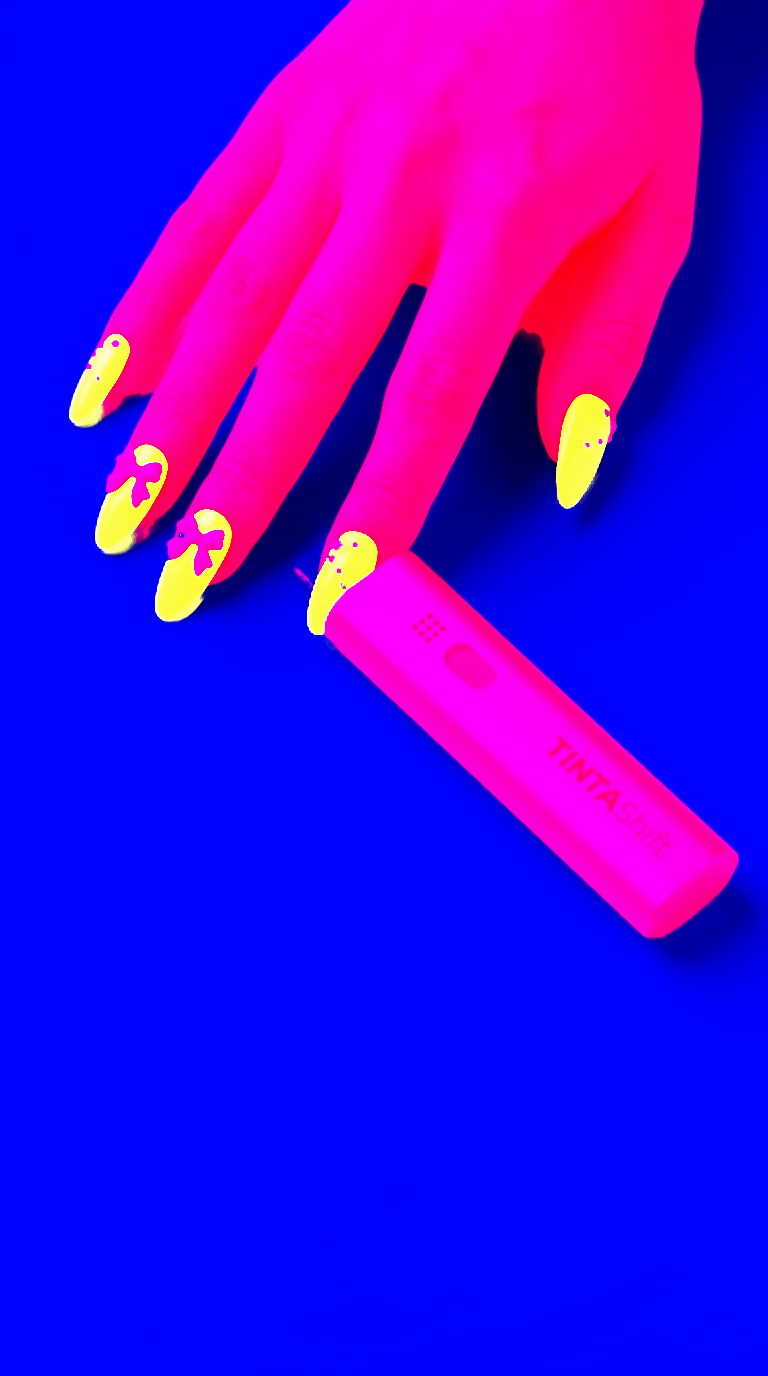
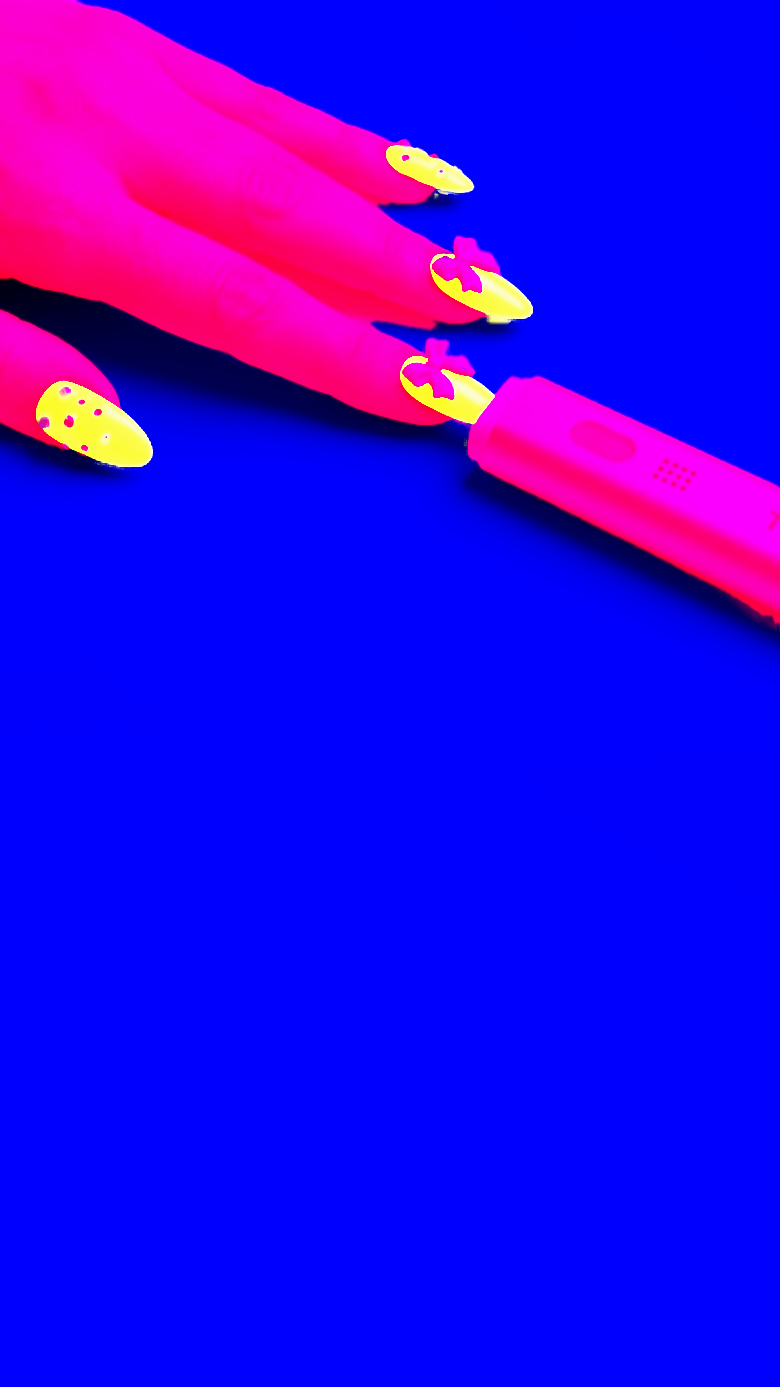
Drop the other session's close-up change; phone close-up now cropped from the approved desktop close-up; rewrite CLAUDE.md
Claude-Session: https://claude.ai/code/session_01RnnKGLg4ThwwdbugAb6Y6E

diff --git a/components/HeroScene.tsx b/components/HeroScene.tsx
@@ -106,7 +106,7 @@ export default function HeroScene({ tint, nail, set, close, onPick, onHover }: {
         // the portrait photo fills the screen (cover), anchored to the top: hand and Shifter sit in the top half,
         // the copy and the panel sit over the empty surface below, like the reference on a phone
         const f = Math.max(W / L.w, H / L.h); view = [(W - L.w * f) / 2, Math.min(0, (H - L.h * f) * 0.15), f];
-        const g = Math.max(W / L.w, H / L.h); cview = [(W - L.w * g) / 2, Math.min(0, (H - L.h * g) * 0.15), g];
+        const g = Math.max(W / L.w, H / L.h) * 1.18; cview = [(W - L.w * g) * 0.45, H * 0.13, g];   // below the back button, nail and device in the middle
       } else {
         const byW = W / L.w, f = Math.max(byW, Math.min(H / L.h, byW * 1.12));
         const panelLeft = W - 28 - Math.min(400, W * 0.34);

diff --git a/CLAUDE.md b/CLAUDE.md
@@ -1,97 +1,45 @@
-# Tintashift — handover notes
+# Tintashift — project notes
 
-## START HERE (state on 15 Nov 2026, end of the first long session)
-SamTeck moved to a new session. Everything is in this repo on `ccr-a563bc74-rhkfx4` and `main` (kept identical; Vercel production deploys from `ccr-a563bc74-rhkfx4`). The reference site's code is in `docs/reference-site/` (read its README).
+Marketing site and nail configurator for **TINTAShift** ("Wearable Beauty Technology · live in color"), built by SamTeck for the client **Dave**.
+- Live: https://tintashift.vercel.app (Vercel project `tintashift`; production deploys from branch `ccr-a563bc74-rhkfx4`).
+- Push every commit to both `ccr-a563bc74-rhkfx4` and `main` (Dave's Codex reads `main`). Commit and push when done, without asking.
+- SamTeck pays for tokens: short turns, do the work, verify, one screenshot, no long explanations.
+- Verify every generated image yourself before using it (device shape, where the nail goes, logo spelling).
 
-How the hero works now (follows the reference):
-- Opening shot: aluminium Shifter + one hand, whole nails in the picked colour, nail-set slider in the panel, **no colour picker** here. Hovering the hand shows "Try it on"; clicking the hand (or the Try it on button) opens the close-up.
-- Close-up: hand with the bow nail slid into the end of the Shifter (`docs/source-images/alu-close-si001.png`, the picture SamTeck said he loves; keep it). Copy and nav clear away, back button top left, panel = "Try it on", colour name, **colour picker**, Add to bag.
-- Phones: own 9:16 photos (`mob-*.png` → `public/hero/m-*`), one full screen, copy and panel over the empty surface.
+## What Dave wants
+- From SamTeck he wants **the nail configurator** (the hero). He built his own product page and cart; he will integrate the configurator into his own code later (his site is on IONOS at tintashift.store).
+- His complaints so far: **slow**, **not good on mobile**, and it must be **perfect**.
+- His brief for the hero: one hand like the reference, the machine with it, no animation of the finger going into the machine on the opening shot, a way to switch the colour and the nail set.
 
-Next steps SamTeck asked for and not done yet:
-1. Close-ups for the other four nail sets (desktop `alu-close-<set>.png` and phone `mob-close-<set>.png`), same framing as `alu-close-si001.png`. Until then the close-up always shows the bow set.
-2. A real video for the move into the close-up and back, like the reference's `ida-`/`vuelta-` clips. Needs a video model; Weave (Figma) was still not linked.
-3. Check the phone close-up picture (`mob-close-si001.png`) against the desktop one: it was generated separately and has not been reviewed by SamTeck.
+## The product
+- **TINTAShifter** (€249). Use the **aluminium** one: slim matte silver bar, rounded-triangle section, "TINTAShift" engraved along the side (one word, TINTA bold, Shift light), an oval grey button and a 2×4 grid of holes near one end. **That end is open; the nail slides into it, finger and device in one straight line.** Photos: `docs/reference/shifter-aluminium-*.jpg`.
+- **Smart Tips** (€39 a set): almond press-on nails. **The whole nail changes colour**; decorations (bows, stars, shells, pearls) stay on top. Store series: Muse, Icon, Spotlight, Chapter, Signature.
+- **The Complete Shift** (€288). Colour is never a product.
+- Brand: soft, editorial, chameleon logo (`public/img/chameleon.png`, low-res; ask Dave for the vector).
 
-Working style SamTeck asked for: he is paying for tokens, so keep turns short, do the work, show one screenshot, don't over-explain. Push to both branches when done without asking. Figma AI credits (image generation) reset daily at 00:00 UTC.
+## The reference site (copy the technique, never the assets)
+VERNIS by Ascenta Studio. Code in `docs/reference-site/` (read its README). Not 3D: aligned AI photos cross-faded in a small WebGL shader; a short video plays the camera move into the close-up; phones get their own 9:16 photos (`m-` prefix); `@media (max-aspect-ratio:4/5)` in `vernis.css` is the phone layout.
 
-Marketing/storefront site for **TINTAShift** ("Wearable Beauty Technology · live in color"), built by SamTeck for the client contact **Dave**.
-Live: https://tintashift.vercel.app (Vercel project `tintashift`, production branch `ccr-a563bc74-rhkfx4`; every push redeploys).
+## How our hero works (follows the reference)
+- **Opening shot:** aluminium Shifter + hand, nails in the picked colour, nail-set chips. No colour picker here. Hovering the hand shows "Try it on" (always shown on phones); clicking it or the Try it on button opens the close-up.
+- **Close-up:** hand with the bow nail slid into the Shifter's end (`docs/source-images/alu-close-si001.png`, approved by SamTeck; keep it). Copy and nav clear; back button top left; panel = colour name, colour drops, Add to bag. Move in/out is a zoom and cross-fade (no video yet).
+- **Phones** (`max-width:760px` or aspect narrower than 4:5; `isPhone()` in `HeroScene.tsx` must match `globals.css`): own portrait pictures, one full screen, name and two 52 px buttons at the bottom, nail-set row above, safe-area padding, as in the reference. The phone close-up (`mob-close-si001.png`) is cropped from the approved desktop close-up and extended downward.
 
-## The product (get this right)
-Studied on 13 Nov 2026 from the brand's Instagram (@tintashift, 22 posts), tintashift.store (Shopify) and tintashift.uk. Photos are in `docs/reference/`.
-- **Brand line:** "Wearable Beauty Technology. Smart color-changing nails are the first expression. Live in Color." Tone: fashion editorial, soft lilac/silver/iridescent, chameleon logo.
-- **How it works (their words):** pick a shade in the app, slide the tip into the Shifter, the tip changes in seconds. "App controls the palette. Shifter controls the state." "100 shades. One set."
-- **TINTAShifter** (store: "Device", **€249**). Two designs exist in their photos:
-  - *Crystal* (newest posts and the kit flat-lay, `shifter-crystal-kit.jpg`): clear cut-crystal bar with emerald-cut facets, "TINTAShift" printed in black on a frosted inner panel, one round Swarovski stone near the cap end, chrome collar and nozzle, a clear soft tube looping to a small **bone-shaped** crystal clip with a chrome spring clip inside. This is the one to build.
-  - *Aluminium* (older videos and still the store's product photo, `shifter-aluminium-store-photo.jpg`): silver tube with a button and speaker holes; the nail tip slots into the end.
-- **Smart Tips / TINTATips** (store: "Smart Tips", **€39** each): press-on nails, almond shape, Swarovski crystals, colour shifts at the **French tip**. The store sells five series: **MUSE, ICON, SPOTLIGHT, CHAPTER, SIGNATURE**. Instagram shows Signature SI001 (lilac, bows, pearls) and SI002 (rose-grey chrome, silver stars), and the Spotlight "Design Series" (blue/glass, shells, bows).
-- **The Complete Shift** (store: "Complete set", **€288**): Shifter plus Smart Tips.
-- Colour is NOT a product. Never present shades as things to buy. (The store's current hero wrongly shows six polish shades with "12 ml · Wide brush", copied from the reference.)
-- Kit contents: tips, adhesive tabs, 2 alcohol pads, nail file, crystal cuticle pusher, Shifter, silver aesthetics bag.
-- Shopify catalogue is readable at `https://tintashift.store/products.json`.
+## Code map
+- `components/Hero.tsx`: copy, panel, close-up state, Try-it-on hint.
+- `components/HeroScene.tsx`: one WebGL quad. Device layer + one hand layer per set over a surface in the picked colour; shadows multiply on; the green key colour on the nails is repainted in the picked colour; close-up layer on top.
+- `public/hero/<name>.webp` + `<name>-m.webp` (photo; maps R keep, G nail, B shadow). Phone versions have prefix `m-`. `lib/hero-layers.json`: sizes, per-set scale/nudge, close-ups (phone values under `mobile`).
+- `tools/build_hero.py`: builds all layers from `docs/source-images/alu-*.png` (desktop) and `mob-*.png` (phone). Re-run after changing a source picture.
+- `lib/shades.ts` (colours, sets, products), `lib/shopify.ts` + `components/Bag.tsx` (catalogue from the store's public `products.json`, bag, checkout via Shopify cart link; set `NEXT_PUBLIC_SHOPIFY_DOMAIN` for another store), `app/layout.tsx` (hero preload, Vercel Analytics/Speed Insights), `components/Sections.tsx` (rest of the page).
+- Headless screenshots: Playwright with `--use-gl=angle --use-angle=swiftshader --enable-unsafe-swiftshader`.
 
-## Decisions from SamTeck on 14 Nov 2026 (these override the notes above where they differ)
-- **Use the aluminium Shifter, not the crystal one.** Studied from their photos (`docs/reference/shifter-aluminium-*.jpg`): a slim bar of matte silver anodised aluminium, fine bead-blasted finish, roughly 11 cm long, soft rounded-triangle cross-section. "TINTAShift" engraved along the side. Near one end an oval translucent grey button and a 2×4 grid of small holes. That end is open with a white plastic rim and a nail-shaped holder inside; **the nail slides into this open end**, on the finger. A pink-to-teal gradient version also appears.
-- **The whole nail changes colour, not just the French tip.** Decorations (bows, stars, pearls) stay on top.
-- **Opening shot framed like the reference:** camera further back, hand and device small, plenty of empty surface.
-- **Close-up view:** the picture is the hand with a nail dipped into the device. The move into it should be a real video like the reference's (`ida-*.mp4` / `vuelta-*.mp4`); that needs a video model, which needs Weave linked.
-- Finish the normal Next.js site; Dave converts it for Shopify himself with Codex. No theme file from us.
-- Candidate pictures for this direction: `docs/source-images/candidate-alu-wide.png` and `candidate-alu-close.png` (green = key colour for the picked shade).
+## Pictures
+Generated with Figma's image generator (`generate_image`, model `gemini-3.1-flash-image`) in SamTeck's file `AfElvizgb8gt0U1WgJvPYT`. Nails are painted pure green `#00FF00` as a key colour. **Figma AI credits are used up until 1 Dec 2026.** Weave (Figma's video models) is not linked, so no video.
 
-## The reference site (how it really works)
-VERNIS by Ascenta Studio, https://ascentastudio.com/vernis/. SamTeck supplied its saved code. **It is not real-time 3D.** Its own comments say: every view is a set of pixel-aligned AI-generated photos (one per shade, wide shot and close-up), cross-faded in a small WebGL shader; the camera move between wide and close-up is a short AI-generated video whose first and last frames are those photos. That is why it looks photoreal and loads instantly. Do not copy its assets; copy the technique.
-
-## What Dave wants for the hero (his latest brief)
-- Follow the reference reel (ascenta.studio nail-polish site): one hand, big name top right, colour panel.
-- **Machine on the left, one hand beside it.** No animation of the finger going into the machine ("too much animation").
-- Keep the **colour panel**; under/near it a control to **switch the nail set** (SI001/SI002). The hand's nails change with it.
-- He said the earlier version was "not close to the scroll animation" of the reference, so scroll-driven camera movement stays, kept subtle.
-- His words (WhatsApp): "keep the style with 1 hand, like in the example", "without putting the finger inside the machine", "no too much animation", "keep the color panel, and then under it you can slide what nails you want to switch it with, like the products", "on the left side is the machine, and then the hand where you can switch the color and also the model / nail set".
-- SamTeck's verdict on the earlier real-time 3D hero (13 Nov): not good enough, looked fake next to the reference and loaded slowly. It was replaced the same day by the photo hero below. He also wants more than the tip to change: the whole surface takes the colour, and the Spectrum set changes the whole nail.
-
-## Code map (current, after the 14–15 Nov rebuild)
-- `components/Hero.tsx`: full-screen hero. Copy top right, glass panel bottom right with colour dots and the nail-set slider. "See it up close" (or clicking the picture) opens the close-up: the copy clears, a back button appears top left, and the panel carries the colour name and Add to bag, as on the reference.
-- `components/HeroScene.tsx`: one WebGL quad, no 3D. Opening shot = device layer + one hand layer per nail set over a surface in the picked colour; close-up = one photo of the hand with a nail in the Shifter. Shadows multiply onto the surface; the green key colour on the nails is repainted in the picked colour (whole nail). Moving to the close-up is a zoom and cross-fade, not a video.
-- `public/hero/`: `device`, `si001`, `si002`, `spotlight`, `chapter`, `spectrum`, `close-si001`, each as `<name>.webp` + `<name>-m.webp` (R keep, G nail, B shadow). `lib/hero-layers.json`: size, per-set scale and nudge, list of close-ups.
-- `tools/build_hero.py`: builds those from `docs/source-images/alu-wide-<set>.png` and `alu-close-<set>.png`. Re-run after adding a picture; a new `alu-close-<set>.png` is picked up automatically, but `Hero.tsx` currently shows only the first close-up.
-- `lib/shades.ts`: colour presets, hero nail sets, products, `surface()`. `lib/shopify.ts` + `components/Bag.tsx`: catalogue, bag, checkout link. `app/layout.tsx`: hero preload, Vercel Analytics and Speed Insights.
-- `components/Logo.tsx`, `components/Sections.tsx` as before. Headless screenshots: `--use-gl=angle --use-angle=swiftshader --enable-unsafe-swiftshader`.
-
-## Phones (15 Nov 2026, following the reference)
-- Phones and upright tablets use their own portrait 9:16 photographs (`docs/source-images/mob-*.png`, built to `public/hero/m-*`), exactly as the reference does with its `m-` images. The hero stays one full screen: hand and Shifter in the top half, copy and panel overlaid on the empty surface below. `isPhone()` in `HeroScene.tsx` and the `(max-width:760px),(max-aspect-ratio:4/5)` rule in `globals.css` must agree.
-- `tools/build_hero.py` builds both sets (`build("alu","")` and `build("mob","m-")`); `lib/hero-layers.json` has the phone values under `mobile`.
-
-## Open after the rebuild
-- **Close-ups for the other four sets** were not generated: Figma AI credits ran out on 14 Nov (they reset daily at 00:00 UTC). Prompt: the close-up prompt in the Figma file history with only the nail decoration changed. Until then the close-up always shows the bow set.
-- **No motion video** into the close-up; needs a video model (Weave was still not linked on 14 Nov).
-- The generated Shifter is rounder than the real rounded-triangle bar, and each generated hand differs slightly.
-
-## Shopify connection (no credentials involved)
-Dave asked on 13 Nov 2026 to connect the site to his Shopify store, tintashift.store. It is connected without a token or admin access:
-- **Catalogue:** `getProducts()` reads the store's public feed `https://tintashift.store/products.json` on the server and refreshes every five minutes (`revalidate = 300` on the page), so names, prices, stock and new products follow Shopify. Our own picture, badge and bullets are kept per product handle; the Shifter and Complete Shift keep our crystal pictures because the store's photo still shows the old aluminium device. If the feed fails, the static list in `lib/shades.ts` is used.
-- **Checkout:** the bag's Checkout button is a Shopify cart link, `https://tintashift.store/cart/<variantId>:<qty>,…`, which opens his real Shopify checkout with those items. Tested: it redirects to the Shopify checkout.
-- **SamTeck said on 14 Nov 2026 that tintashift.store is "the old store".** Dave will connect the right store himself with his Codex from the GitHub repo (`AGENTS.md` and the README section "Connecting a Shopify store" are written for that). The new store's domain was not given.
-- To use another store set `NEXT_PUBLIC_SHOPIFY_DOMAIN`. The site itself stays a Next.js app on Vercel; it is not a Shopify theme, so there is no theme file to upload. Pointing his domain at Vercel is done in Vercel's domain settings.
-- Not done: discount codes, customer accounts and a cart shared with the Shopify theme. Those need the Storefront API and a Storefront access token from Dave's Shopify admin (Headless channel).
-
-## How the hero pictures were made
-Figma's image generator (`generate_image`, model `gemini-3.1-flash-image`), in SamTeck's Figma file "Tintashift hero imagery" (key `AfElvizgb8gt0U1WgJvPYT`). It is text-to-image only and spends his Figma AI credits; he approved that on 13 Nov 2026. Output is 1376×768.
-- Every image uses the same prompt skeleton so angle and light match: three-quarter view about 35° above a plain white surface, hand entering from the upper-left, soft key light from the upper left, French tips painted "solid, flat, vivid pure green (#00FF00)" as a key colour. Only the nail description changes per set. `wide-si001.png` also contains the Shifter, described from the kit photo.
-- `docs/source-images/top-*.png` are top-down versions of four sets, generated first and not used yet. They suit a close-up "Try it on" view like the reference's.
-- Weave (Figma's image-editing and video models) is not linked to his account, so there is no image-to-image editing and no generated camera-move video yet.
-
-## Known gaps / next steps
-- No close-up view yet. The reference zooms from the wide shot to a top-down close-up with a short generated video; we have the top-down stills but no video.
-- Source images are 1376 px wide, so the hero is slightly soft on large high-density screens. The reference serves 2560 px and 4K.
-- The nail designs are generated from descriptions of the real sets, not the real products. Muse and Icon are in the shop list but have no hero set because their designs are not clear in the client's photos. "Spectrum" (whole nail changes) comes from their Instagram, not the store.
-- The Shifter in the picture is generated from a description of the crystal device. It matches the kit photo closely but is not a photo of the real unit.
-- Each set is a different generated hand, so skin and pose change slightly when switching sets. The Spotlight image has a bracelet and a ring.
-- Newsletter form does not store emails. The chameleon logo is cut from a small Instagram image; ask Dave for the vector logo.
-- No real order has been placed through the site; the checkout link was only followed as far as the Shopify checkout page.
-- Checked in headless Chromium only, at widths from 360 to 1920 px (no sideways scroll at any of them), not on real devices.
-- Phones and upright tablets (`max-width:760px` or aspect narrower than 4:5) use the stacked layout; the same rule is in `HeroScene.tsx` and `globals.css` and must stay in step.
-
-## Rules
-- Develop on `ccr-a563bc74-rhkfx4` (Vercel production) and push the same commits to `main` (SamTeck asked for `main` on 14 Nov 2026 so Dave's Codex can pick the repo up). Commit and push when done, without asking. Keep Next.js patched (Vercel blocks vulnerable versions).
-- Do not copy the reference site's photos or assets.
+## Approved plan, status
+1. Mobile responsiveness — **done** (matched to the reference's phone rules; checked at 375/390/430/768 px headless, not on real phones).
+2. Close-ups for the other four sets (si002, spotlight, chapter, spectrum), desktop and phone, framed like `alu-close-si001.png` — **waiting for Figma credits**. Until then the close-up always shows the bow set.
+3. Speed — measure on a simulated mid-range phone, target first picture < 1.5 s and colour/set change < 100 ms; still-image fallback while WebGL starts.
+4. Package the configurator for Dave: one folder `components/configurator/`, an `onAddToBag` hook for his cart, short README.
+5. Polish: reduced motion, keyboard and screen-reader basics, still image if WebGL fails.
+6. Video into the close-up — only if SamTeck links Weave.
